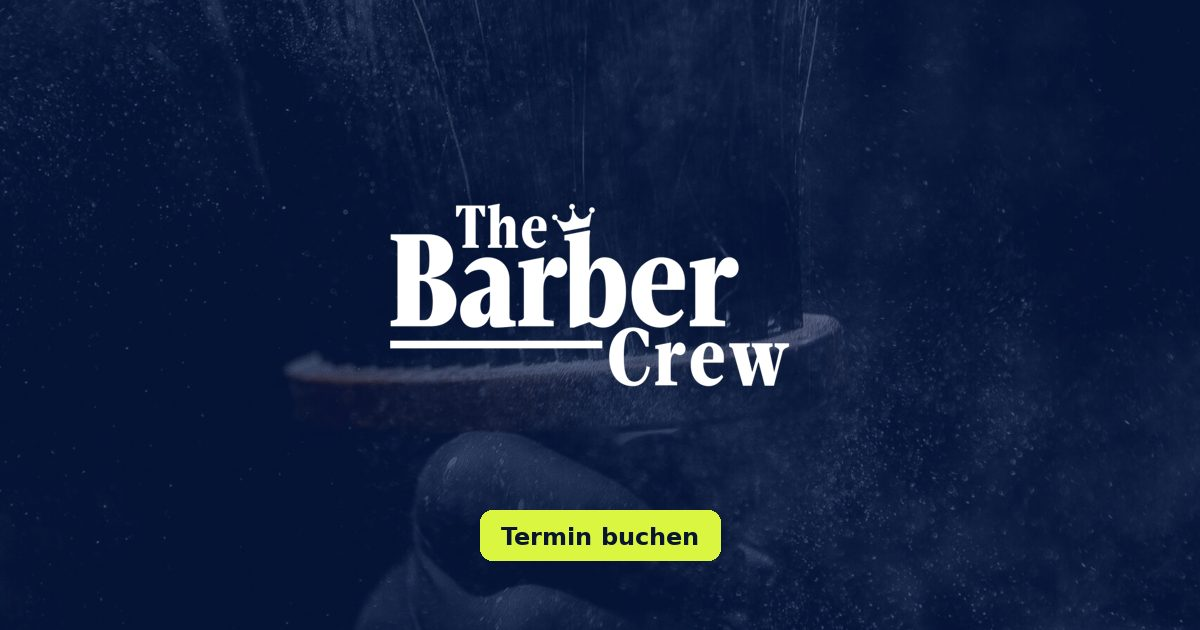
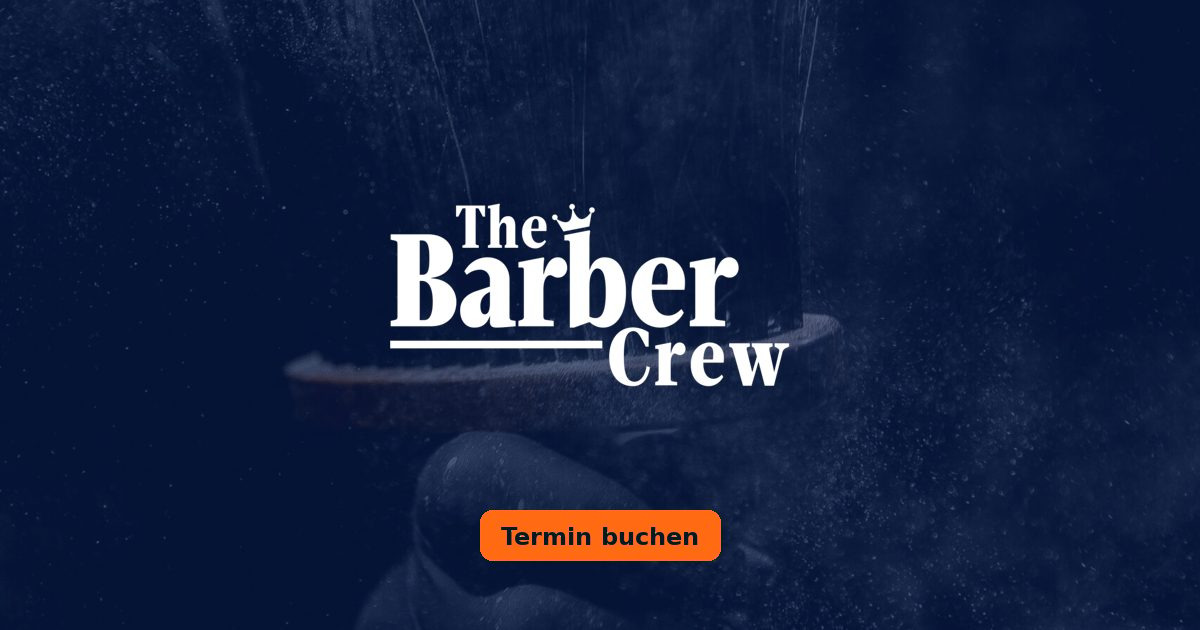
Barber Crew demo v4.1.1: restore brand orange on the KELDER redesign
Replace KELDER lime #DAF641 / hover #E6FB73 and light-mode olive #6B7A00 with Barber Crew's own orange from barbercrew.css: #FF6A13 (accent) and #FF8540 (hover). Light mode uses a same-hue deeper shade #B24200 for AA contrast on pale backgrounds. Layout, animation and transitions are unchanged.

Changed region(s): [[0.4008, 0.7841, 0.6167, 0.9048]]

diff --git a/wp-content/themes/barbercrew-modern/assets/css/kelder.css b/wp-content/themes/barbercrew-modern/assets/css/kelder.css
@@ -14,13 +14,13 @@
   --k-bg:#f1f4f9; --k-bg2:#e8edf6; --k-card:#ffffff; --k-ink:#0a1630; --k-muted:#56627c; --k-line:rgba(10,22,48,.10);
   --k-soft:#eaf0fd; --k-soft-ink:#1d4fd8;
   --k-navy:#050d24; --k-blue:#0c2f86; --k-blue2:#1747c4; --k-blue3:#3a7bff; --k-sky:#a8c8ff;
-  --k-accent:#daf641; --k-accent-hi:#e6fb73; --k-accent-ink:#0a1630; /* KELDER-Limette */ --k-focus:#1747c4;
+  --k-accent:#ff6a13; --k-accent-hi:#ff8540; --k-accent-ink:#0a1630; /* Barber-Crew-Orange #FF6A13 / Hover #FF8540 */ --k-focus:#1747c4;
   --k-r:18px; --k-max:1200px; --k-gut:clamp(16px,4vw,40px);
   --k-ease:cubic-bezier(.16,1,.3,1); --k-fast:180ms;
   --k-heroend:var(--k-bg);
   /* Tokens für den Sprachumschalter (immer dunkles Panel) */
   --bc-card:#0f1b3d; --bc-card-hi:#1b2b58; --bc-white:#fff; --bc-muted:rgba(255,255,255,.72); --bc-line:rgba(255,255,255,.14);
-  --bc-orange:#daf641; --bc-r:12px; --bc-sans:var(--k-sans); --ma-fast:160ms; --ma-out:cubic-bezier(.16,1,.3,1);
+  --bc-orange:#ff6a13; --bc-r:12px; --bc-sans:var(--k-sans); --ma-fast:160ms; --ma-out:cubic-bezier(.16,1,.3,1);
   color-scheme:light dark;
 }
 @media (prefers-color-scheme: dark){
@@ -41,7 +41,7 @@ p{margin:0 0 1em}
 h1,h2,h3{margin:0;font-weight:500}
 em{font-style:normal}
 :focus-visible{outline:2px solid var(--k-focus);outline-offset:3px;border-radius:6px}
-.bc-header,.k-hero,.k-dash,.k-footer,.k-card--blue,.k-panel,.k-loader{--k-focus:#daf641}
+.bc-header,.k-hero,.k-dash,.k-footer,.k-card--blue,.k-panel,.k-loader{--k-focus:#ff6a13}
 
 /* Skip-Link (bleibt wie Runde 2: schwarz auf weiß) */
 .bc-skip{position:fixed;left:1em;top:1em;transform:translateY(-300%);background:#fff;color:#000;padding:.7em 1.2em;z-index:400;font-weight:700;border-radius:999px;text-decoration:none}
@@ -100,8 +100,8 @@ em{font-style:normal}
 .k-btn:hover::before{transform:translateX(120%)}
 .k-btn:hover{transform:translateY(-1px)}
 .k-btn:active{transform:translateY(0) scale(.98)}
-.k-btn--accent{background:var(--k-accent);color:var(--k-accent-ink);box-shadow:0 8px 24px -10px rgba(218,246,65,.7)}
-.k-btn--accent:hover{background:var(--k-accent-hi);box-shadow:0 12px 30px -10px rgba(218,246,65,.85)}
+.k-btn--accent{background:var(--k-accent);color:var(--k-accent-ink);box-shadow:0 8px 24px -10px rgba(255,106,19,.7)}
+.k-btn--accent:hover{background:var(--k-accent-hi);box-shadow:0 12px 30px -10px rgba(255,106,19,.85)}
 .k-btn--line,.k-btn--ghost{border-color:rgba(255,255,255,.55);color:#fff;background:rgba(255,255,255,.04)}
 .k-btn--line:hover,.k-btn--ghost:hover{border-color:#fff;background:rgba(255,255,255,.12)}
 .k-btn--dark{background:var(--k-navy);color:#fff}
@@ -150,8 +150,8 @@ em{font-style:normal}
 .k-dash__big{margin:0 0 12px;font-size:clamp(40px,5.2vw,64px);line-height:1.05;letter-spacing:-.03em;font-weight:500}
 .k-chip{display:inline-flex;align-items:center;gap:8px;margin:0 0 18px;padding:5px 12px;border-radius:999px;font-size:12.5px}
 .k-chip--glass{background:rgba(255,255,255,.1);border:1px solid rgba(255,255,255,.14)}
-.k-dot{width:7px;height:7px;border-radius:50%;background:var(--k-accent);box-shadow:0 0 0 0 rgba(218,246,65,.6);animation:kPing 2.2s infinite}
-@keyframes kPing{0%{box-shadow:0 0 0 0 rgba(218,246,65,.55)}70%{box-shadow:0 0 0 9px rgba(218,246,65,0)}100%{box-shadow:0 0 0 0 rgba(218,246,65,0)}}
+.k-dot{width:7px;height:7px;border-radius:50%;background:var(--k-accent);box-shadow:0 0 0 0 rgba(255,106,19,.6);animation:kPing 2.2s infinite}
+@keyframes kPing{0%{box-shadow:0 0 0 0 rgba(255,106,19,.55)}70%{box-shadow:0 0 0 9px rgba(255,106,19,0)}100%{box-shadow:0 0 0 0 rgba(255,106,19,0)}}
 .k-rows{margin:0}
 .k-rows>div{display:flex;justify-content:space-between;gap:12px;padding:11px 0;border-top:1px solid rgba(255,255,255,.12);font-size:14px}
 .k-rows dt{color:rgba(255,255,255,.72)}.k-rows dd{margin:0;font-weight:600}
@@ -171,7 +171,7 @@ em{font-style:normal}
 .k-chart__pt,.k-chart__end{position:absolute;left:0;top:0;width:12px;height:12px;margin:-6px 0 0 -6px;border-radius:50%;pointer-events:none}
 .k-chart__pt{background:#fff;box-shadow:0 0 0 4px rgba(255,255,255,.18);opacity:0;transition:opacity .2s}
 .k-chart.is-hover .k-chart__pt{opacity:1}
-.k-chart__end{background:var(--k-accent);box-shadow:0 0 0 5px rgba(218,246,65,.25),0 0 18px rgba(218,246,65,.8)}
+.k-chart__end{background:var(--k-accent);box-shadow:0 0 0 5px rgba(255,106,19,.25),0 0 18px rgba(255,106,19,.8)}
 .k-chart__tip{position:absolute;left:0;top:0;transform:translate(-50%,calc(-100% - 14px));padding:8px 10px;border-radius:9px;background:#fff;color:var(--k-navy);font-size:12px;line-height:1.3;white-space:nowrap;box-shadow:0 10px 24px rgba(0,0,0,.25);pointer-events:none;max-width:240px}
 .k-chart__tip b{display:block;font-size:13px}
 .k-chart__tip span{display:block;white-space:normal;color:#4a5878}
@@ -263,7 +263,7 @@ em{font-style:normal}
 .k-step__body h3{font-size:18px;font-weight:600;margin:0 0 4px}
 .k-step__body p{margin:0;color:rgba(255,255,255,.72);font-size:14.5px;max-width:30em}
 .k-step:nth-child(even) .k-step__body p{margin-inline-start:auto}
-.k-step.is-active .k-step__n{background:var(--k-accent);color:var(--k-accent-ink);transform:scale(1.06);box-shadow:0 10px 26px -8px rgba(218,246,65,.8)}
+.k-step.is-active .k-step__n{background:var(--k-accent);color:var(--k-accent-ink);transform:scale(1.06);box-shadow:0 10px 26px -8px rgba(255,106,19,.8)}
 .k-step.is-active .k-step__dot{background:#3a7bff;border-color:#9cc0ff;box-shadow:0 0 0 6px rgba(58,123,255,.25)}
 
 /* Preise: Instrumente */
@@ -361,7 +361,7 @@ em{font-style:normal}
 .k-progress{position:relative;height:6px;border-radius:6px;background:var(--k-bg2)}
 .k-progress__fill{position:absolute;inset:0;border-radius:6px;background:linear-gradient(90deg,var(--k-blue2),var(--k-blue3));transform-origin:left;transform:scaleX(var(--p,0))}
 [dir="rtl"] .k-progress__fill{transform-origin:right}
-.k-progress__mark{position:absolute;top:50%;left:calc(var(--p,0)*100%);width:14px;height:14px;margin:-7px 0 0 -7px;border-radius:50%;background:var(--k-accent);box-shadow:0 0 0 4px rgba(218,246,65,.25)}
+.k-progress__mark{position:absolute;top:50%;left:calc(var(--p,0)*100%);width:14px;height:14px;margin:-7px 0 0 -7px;border-radius:50%;background:var(--k-accent);box-shadow:0 0 0 4px rgba(255,106,19,.25)}
 [dir="rtl"] .k-progress__mark{left:auto;right:calc(var(--p,0)*100%);margin:-7px -7px 0 0}
 .k-progress__ends{display:flex;justify-content:space-between;font-size:12px;color:var(--k-muted);margin:8px 0 0}
 
@@ -404,7 +404,7 @@ em{font-style:normal}
 .bc-lang__opt .bc-flag{box-shadow:0 0 0 1px rgba(255,255,255,.18)}
 .bc-lang__tag{margin-inline-start:auto;font-size:.72rem;font-weight:700;color:var(--bc-muted);border:1px solid rgba(255,255,255,.35);border-radius:999px;padding:.25em .7em;white-space:nowrap}
 .bc-lang__check{margin-inline-start:auto;width:10px;height:10px;border-radius:50%}
-.bc-lang__opt[aria-current="true"] .bc-lang__check{background:var(--k-accent);box-shadow:0 0 10px rgba(218,246,65,.8)}
+.bc-lang__opt[aria-current="true"] .bc-lang__check{background:var(--k-accent);box-shadow:0 0 10px rgba(255,106,19,.8)}
 .bc-lang__opt--default[aria-current="true"] .bc-lang__tag{border-color:var(--k-accent);color:#fff}
 .bc-lang__list[data-stagger]>*{transition-duration:var(--ma-fast)!important;transform:translateY(6px)}
 .bc-lang__panel:not(.is-up) .bc-lang__list[data-stagger]>*{transform:translateY(-6px)}
@@ -502,14 +502,14 @@ em{font-style:normal}
 
 
 /* =====================================================================
-   v4.1 – 1:1 KELDER-Struktur (Nov 2026): Limette, Abschnittsreihenfolge, fixierter Footer
+   v4.1 – 1:1 KELDER-Struktur (Nov 2026): Barber-Crew-Orange, Abschnittsreihenfolge, fixierter Footer
    ===================================================================== */
 .k-hero__title{font-size:clamp(46px,7.4vw,96px)}
 .k-hero__note{margin:18px 0 0;font-size:12px;color:rgba(255,255,255,.62)}
 .k-btn--accent{box-shadow:none}
-.k-btn--accent:hover{box-shadow:0 10px 26px -12px rgba(218,246,65,.8)}
+.k-btn--accent:hover{box-shadow:0 10px 26px -12px rgba(255,106,19,.8)}
 .k-btn--line,.k-btn--ghost{border-color:rgba(255,255,255,.7)}
-.k-pill__icon{background:rgba(218,246,65,.95)}
+.k-pill__icon{background:rgba(255,106,19,.95)}
 .k-chip__ico{color:var(--k-accent);font-weight:700}
 .k-time{display:inline-block;direction:ltr;unicode-bidi:isolate}
 .bc-item__dur{direction:ltr;unicode-bidi:isolate}
@@ -610,7 +610,7 @@ em{font-style:normal}
 .k-panel__bg img{width:100%;height:100%;object-fit:cover}
 .k-panel>*{position:relative}
 .k-panel>.k-panel__bg,.k-panel>.k-silk{position:absolute}
-.k-step.is-active .k-step__n{box-shadow:0 10px 26px -10px rgba(218,246,65,.7)}
+.k-step.is-active .k-step__n{box-shadow:0 10px 26px -10px rgba(255,106,19,.7)}
 
 /* Bewertungen (KELDER "Three situations") */
 .k-review{padding:16px 16px 22px}
@@ -757,11 +757,11 @@ html{--foot-h:0px}
 /* P1.5: Diagramm-Beschriftungen und Legende */
 .k-chart__x span{flex:0 0 auto}
 .k-legend{list-style:none}
-/* Limette in hellem Modus: dunkle Oliv-Kante / -Variante für 3:1 */
-:root{--k-olive:#6b7a00}
+/* Orange in hellem Modus: dunklere Stufe #B24200 (gleicher Farbton/Sättigung wie #FF6A13, L=0.35) für WCAG AA auf hellen Flächen */
+:root{--k-accent-deep:#b24200}
 @media (prefers-color-scheme: light){
-  .k-days li.is-today{box-shadow:inset 0 0 0 2px var(--k-olive);color:#1d2400}
-  .k-progress__end{background:var(--k-olive)}
-  .bc-sticky-book{box-shadow:0 0 0 2px var(--k-olive)}
+  .k-days li.is-today{box-shadow:inset 0 0 0 2px var(--k-accent-deep);color:var(--k-accent-ink)}
+  .k-progress__end{background:var(--k-accent-deep)}
+  .bc-sticky-book{box-shadow:0 0 0 2px var(--k-accent-deep)}
   .k-step__n{}
 }

diff --git a/index.html b/index.html
@@ -6,7 +6,7 @@
 <meta name="referrer" content="strict-origin-when-cross-origin">
 <meta name="viewport" content="width=device-width, initial-scale=1">
 <meta name="description" content="Konzept-Redesign von PIXELPOP für The Barber Crew – Barbershop in Wien, Taborstraße 20, 1020 Wien. Haarschnitt, Bart, Rasur. Termin online buchen.">
-<script src="wp-content/themes/barbercrew-modern/assets/js/boot.js?ver=4.1.0.kelder"></script>
+<script src="wp-content/themes/barbercrew-modern/assets/js/boot.js?ver=4.1.1.kelder"></script>
 <title>The Barber Crew &#8211; Barbershop Wien – Taborstraße 20</title>
 <meta name='robots' content="noindex, nofollow" />
 <link rel="canonical" href="https://amireven-crypto.github.io/demo-barber-crew-monday/">
@@ -16,8 +16,8 @@
 <link rel="alternate" hreflang="he" href="https://amireven-crypto.github.io/demo-barber-crew-monday/?lang=he">
 <link rel="alternate" hreflang="x-default" href="https://amireven-crypto.github.io/demo-barber-crew-monday/">
 <link rel="preload" href="wp-content/themes/barbercrew-modern/assets/fonts/figtree-latin-var.woff2" as="font" type="font/woff2" crossorigin>
-<link rel="stylesheet" href="wp-content/themes/barbercrew-modern/assets/vendor/motion-anything/stagger-list.css?ver=4.1.0.kelder">
-<link rel="stylesheet" href="wp-content/themes/barbercrew-modern/assets/css/kelder.css?ver=4.1.0.kelder">
+<link rel="stylesheet" href="wp-content/themes/barbercrew-modern/assets/vendor/motion-anything/stagger-list.css?ver=4.1.1.kelder">
+<link rel="stylesheet" href="wp-content/themes/barbercrew-modern/assets/css/kelder.css?ver=4.1.1.kelder">
 <link rel="icon" href="wp-content/themes/barbercrew-modern/assets/img/favicon-32.png" sizes="32x32" type="image/png">
 <link rel="apple-touch-icon" href="wp-content/themes/barbercrew-modern/assets/img/favicon-180.png">
 <meta name="color-scheme" content="light dark">
@@ -446,7 +446,7 @@
 <script defer src="wp-content/themes/barbercrew-modern/assets/vendor/gsap/gsap.min.js?ver=3.15.1"></script>
 <script defer src="wp-content/themes/barbercrew-modern/assets/vendor/gsap/ScrollTrigger.min.js?ver=3.15.1"></script>
 <script defer src="wp-content/themes/barbercrew-modern/assets/vendor/lenis/lenis.min.js?ver=1.3.27"></script>
-<script defer src="wp-content/themes/barbercrew-modern/assets/js/kelder.js?ver=4.1.0.kelder"></script>
-<script defer id="barbercrew-i18n-js" src="wp-content/themes/barbercrew-modern/assets/js/i18n.js?ver=4.1.0.kelder"></script>
+<script defer src="wp-content/themes/barbercrew-modern/assets/js/kelder.js?ver=4.1.1.kelder"></script>
+<script defer id="barbercrew-i18n-js" src="wp-content/themes/barbercrew-modern/assets/js/i18n.js?ver=4.1.1.kelder"></script>
 </body>
 </html>

diff --git a/wp-content/themes/barbercrew-modern/assets/js/kelder.js b/wp-content/themes/barbercrew-modern/assets/js/kelder.js
@@ -276,7 +276,7 @@
   function Halftone(cv) {
     var ctx = cv.getContext('2d'), host = cv.parentNode, w = 0, h = 0, dpr = Math.min(W.devicePixelRatio || 1, MOBILE ? 1.5 : 2);
     var sp = MOBILE ? 12 : 11, maxR = sp * 0.36, mx = -9999, my = -9999, cm = 0, on = true, t0 = performance.now(), frame = 0;
-    var accent = [218, 246, 65];
+    var accent = [255, 106, 19];
     function size() { var r = host.getBoundingClientRect(); w = r.width; h = r.height; cv.width = w * dpr; cv.height = h * dpr; ctx.setTransform(dpr, 0, 0, dpr, 0, 0); }
     function ss(a, b, x) { x = Math.min(1, Math.max(0, (x - a) / (b - a))); return x * x * (3 - 2 * x); }
     function draw(now) {
@@ -501,7 +501,7 @@
       return { wd: wd, min: (+o.hour % 24) * 60 + +o.minute };
     } catch (e) { var n = new Date(); return { wd: (n.getDay() + 6) % 7, min: n.getHours() * 60 + n.getMinutes() }; }
   }
-  // KELDER "Swept every business day": Datumschips der aktuellen Woche (Wien); vergangene Werktage blau, heute Limette, kommende umrandet, Wochenende grau
+  // KELDER "Swept every business day": Datumschips der aktuellen Woche (Wien); vergangene Werktage blau, heute Orange, kommende umrandet, Wochenende grau
   function Days(ul) {
     var lis = $$('li', ul), v = viennaNow(), today = v.wd, base;
     try { base = new Date(new Date().toLocaleString('en-US', { timeZone: 'Europe/Vienna' })); } catch (e) { base = new Date(); }
